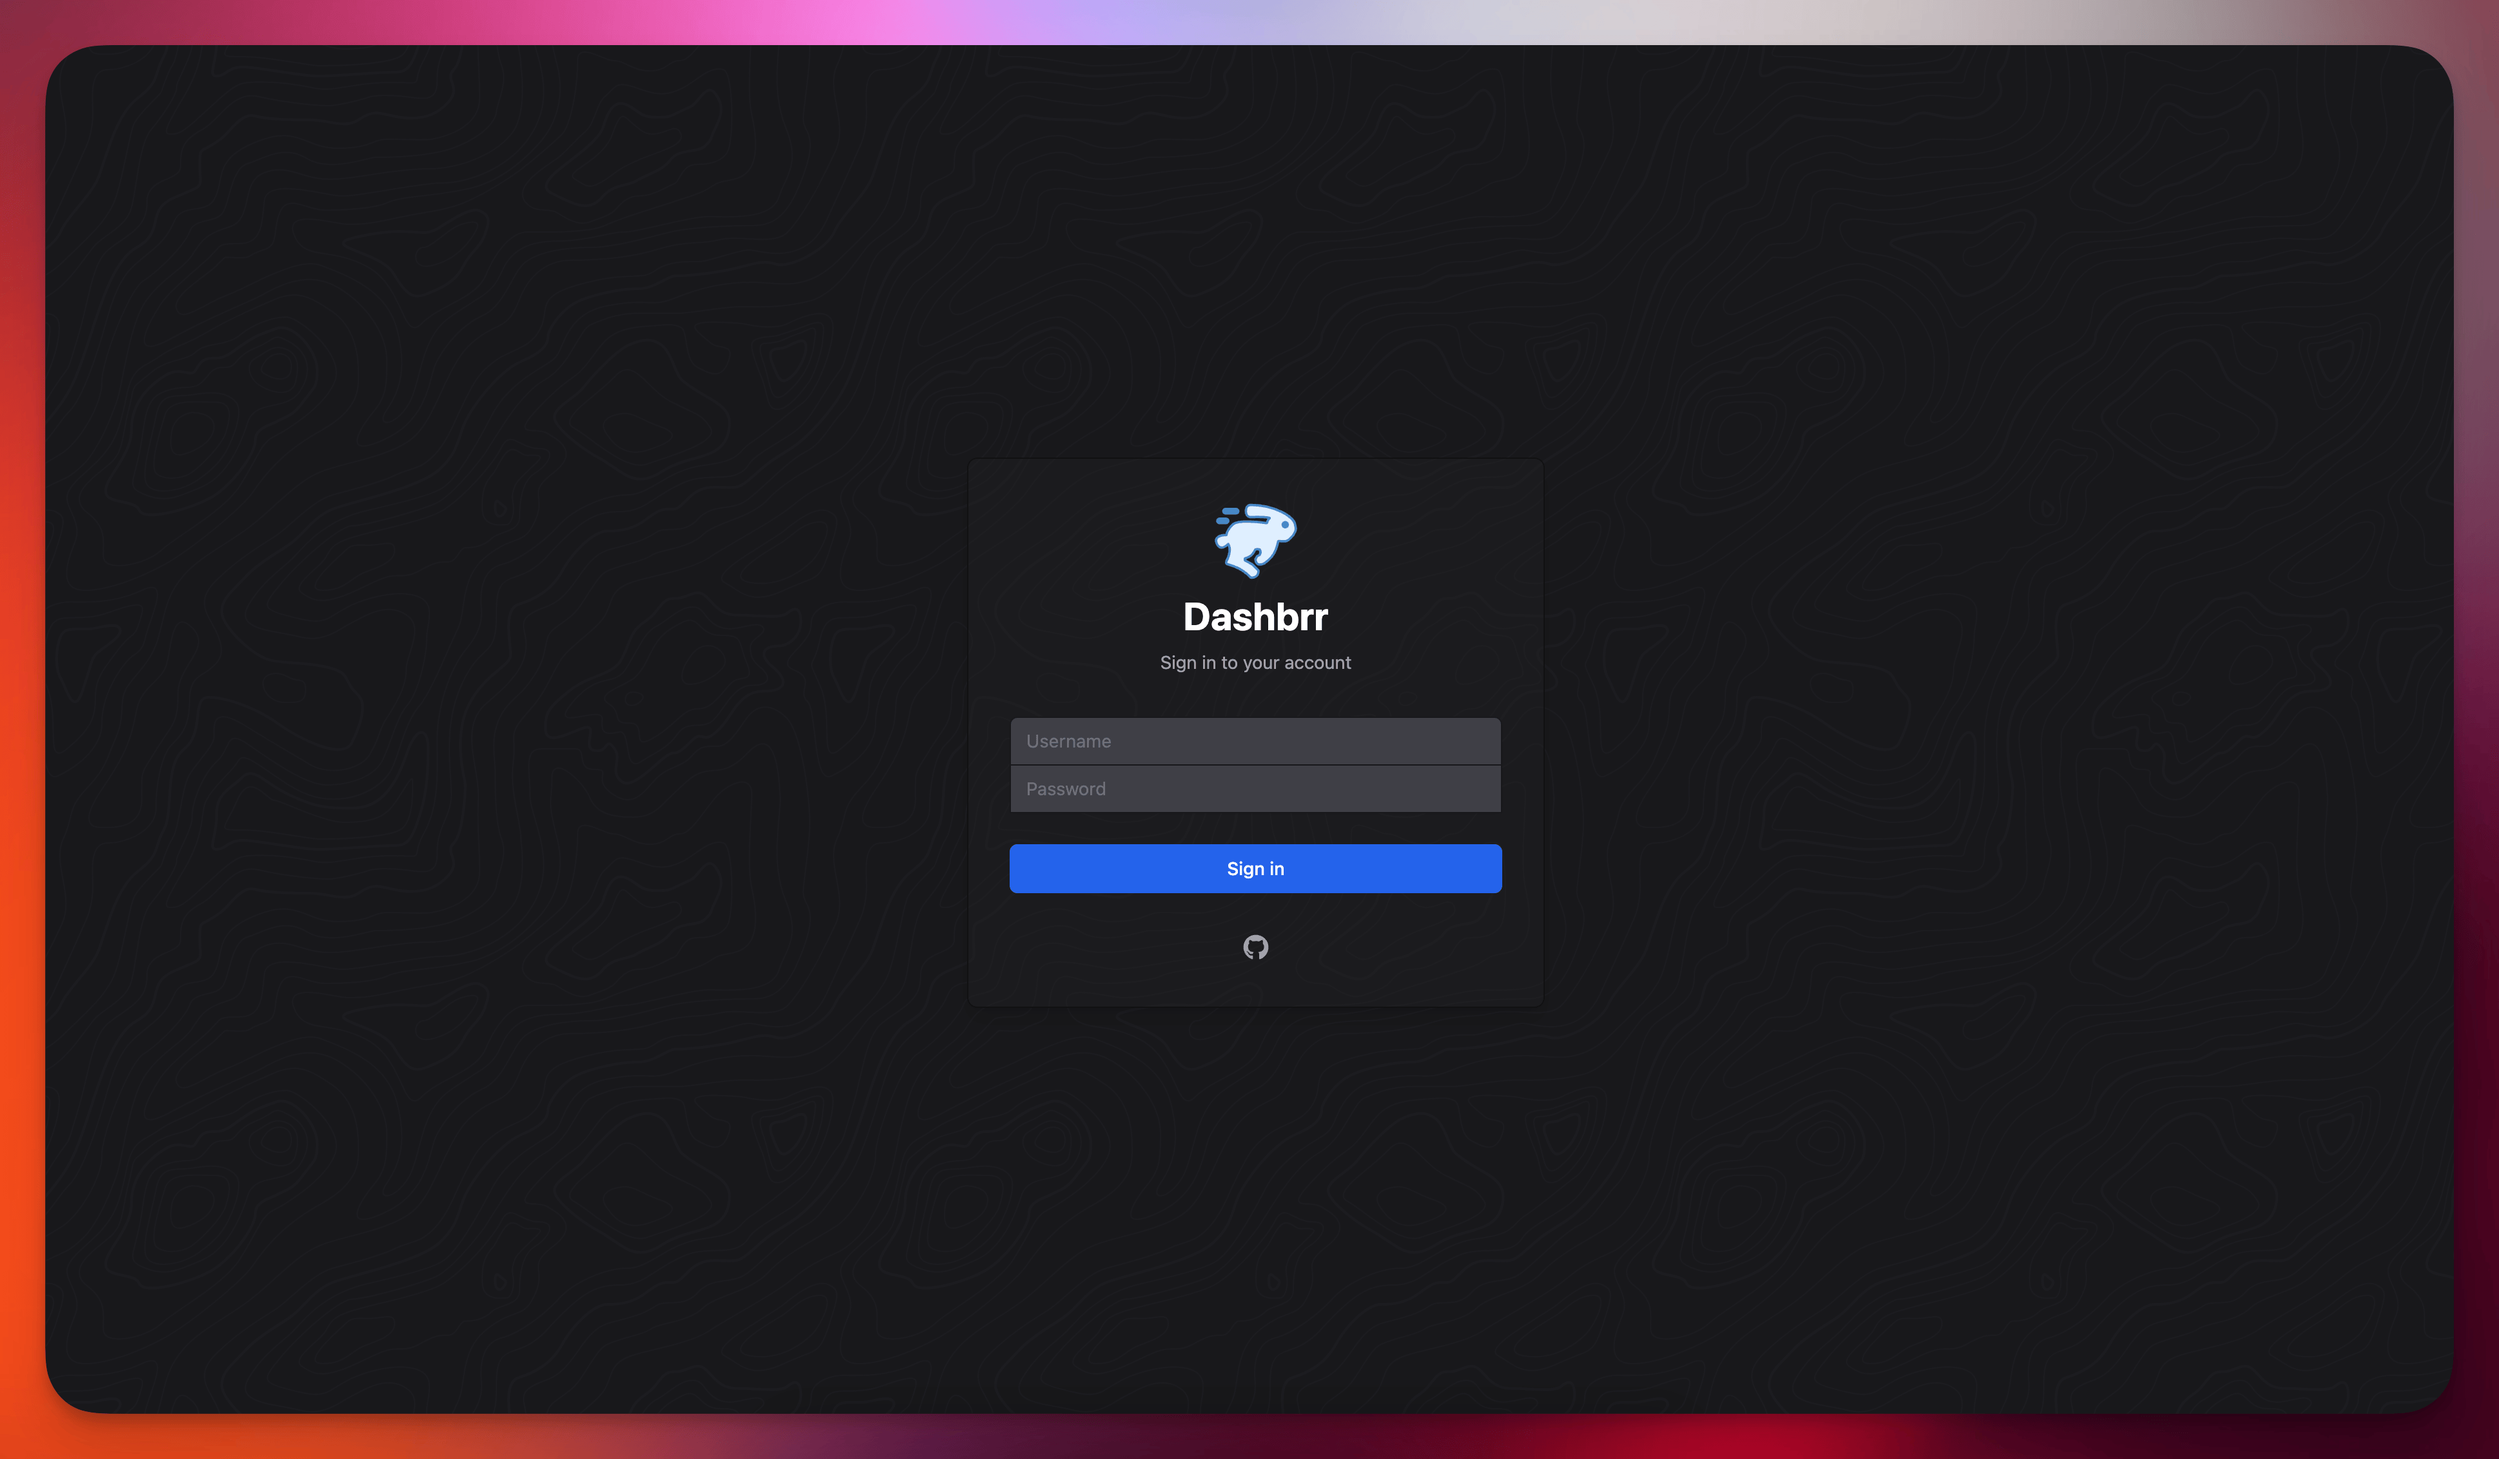
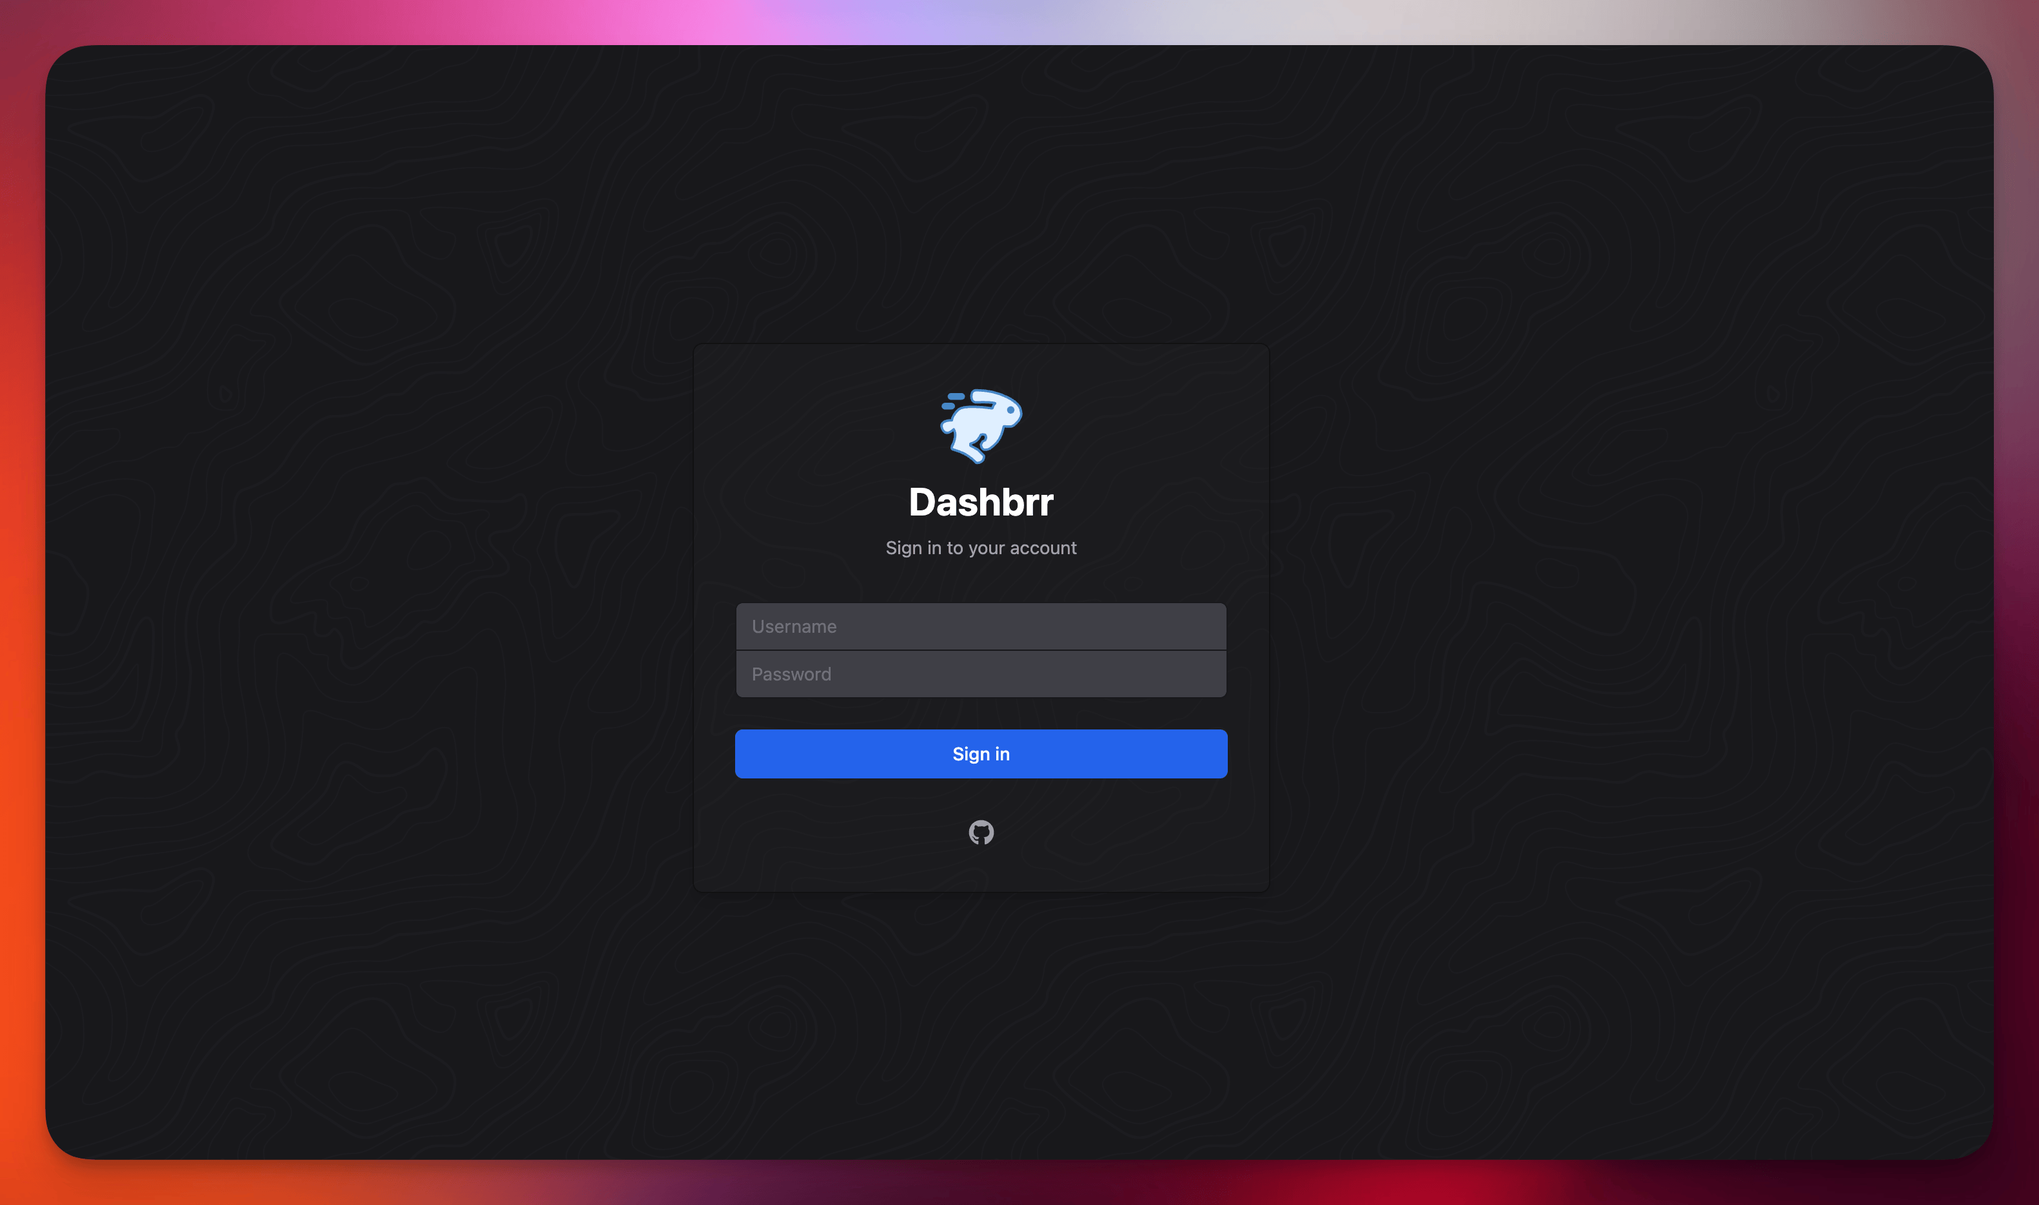
fix(ui): adjust input border radius on login/register forms

diff --git a/web/src/components/auth/LoginPage.tsx b/web/src/components/auth/LoginPage.tsx
@@ -284,7 +284,9 @@ export function LoginPage() {
                   type="password"
                   autoComplete="current-password"
                   required
-                  className="appearance-none relative block w-full px-3 py-2 border border-gray-700 dark:border-gray-900 bg-gray-700 text-gray-300 placeholder-gray-500 focus:outline-none focus:ring-blue-500 focus:border-blue-500 focus:z-10 sm:text-sm"
+                  className={`appearance-none relative block w-full px-3 py-2 border border-gray-700 dark:border-gray-900 bg-gray-700 text-gray-300 placeholder-gray-500 focus:outline-none focus:ring-blue-500 focus:border-blue-500 focus:z-10 sm:text-sm ${
+                    !isRegistering ? "rounded-b-md" : ""
+                  }`}
                   placeholder="Password"
                   value={formData.password}
                   onChange={handleInputChange}

diff --git a/README.md b/README.md
@@ -168,6 +168,8 @@ Simple username/password authentication with user management through the applica
 
 ![Built-in Login](.github/assets/built-in-login.png)
 
+![Built-in Register](.github/assets/built-in-register.png)
+
 #### OpenID Connect (OIDC)
 
 Enterprise-grade authentication with support for providers like Auth0.
@@ -204,6 +206,9 @@ _Main dashboard with service health monitoring and status cards_
 
 ![Built-in Authentication](.github/assets/built-in-login.png)
 _Built-in authentication system_
+
+![Built-in Register](.github/assets/built-in-register.png)
+_Registration form_
 
 ![OIDC Login](.github/assets/OIDC-login.png)
 _OpenID Connect (OIDC) authentication support_
